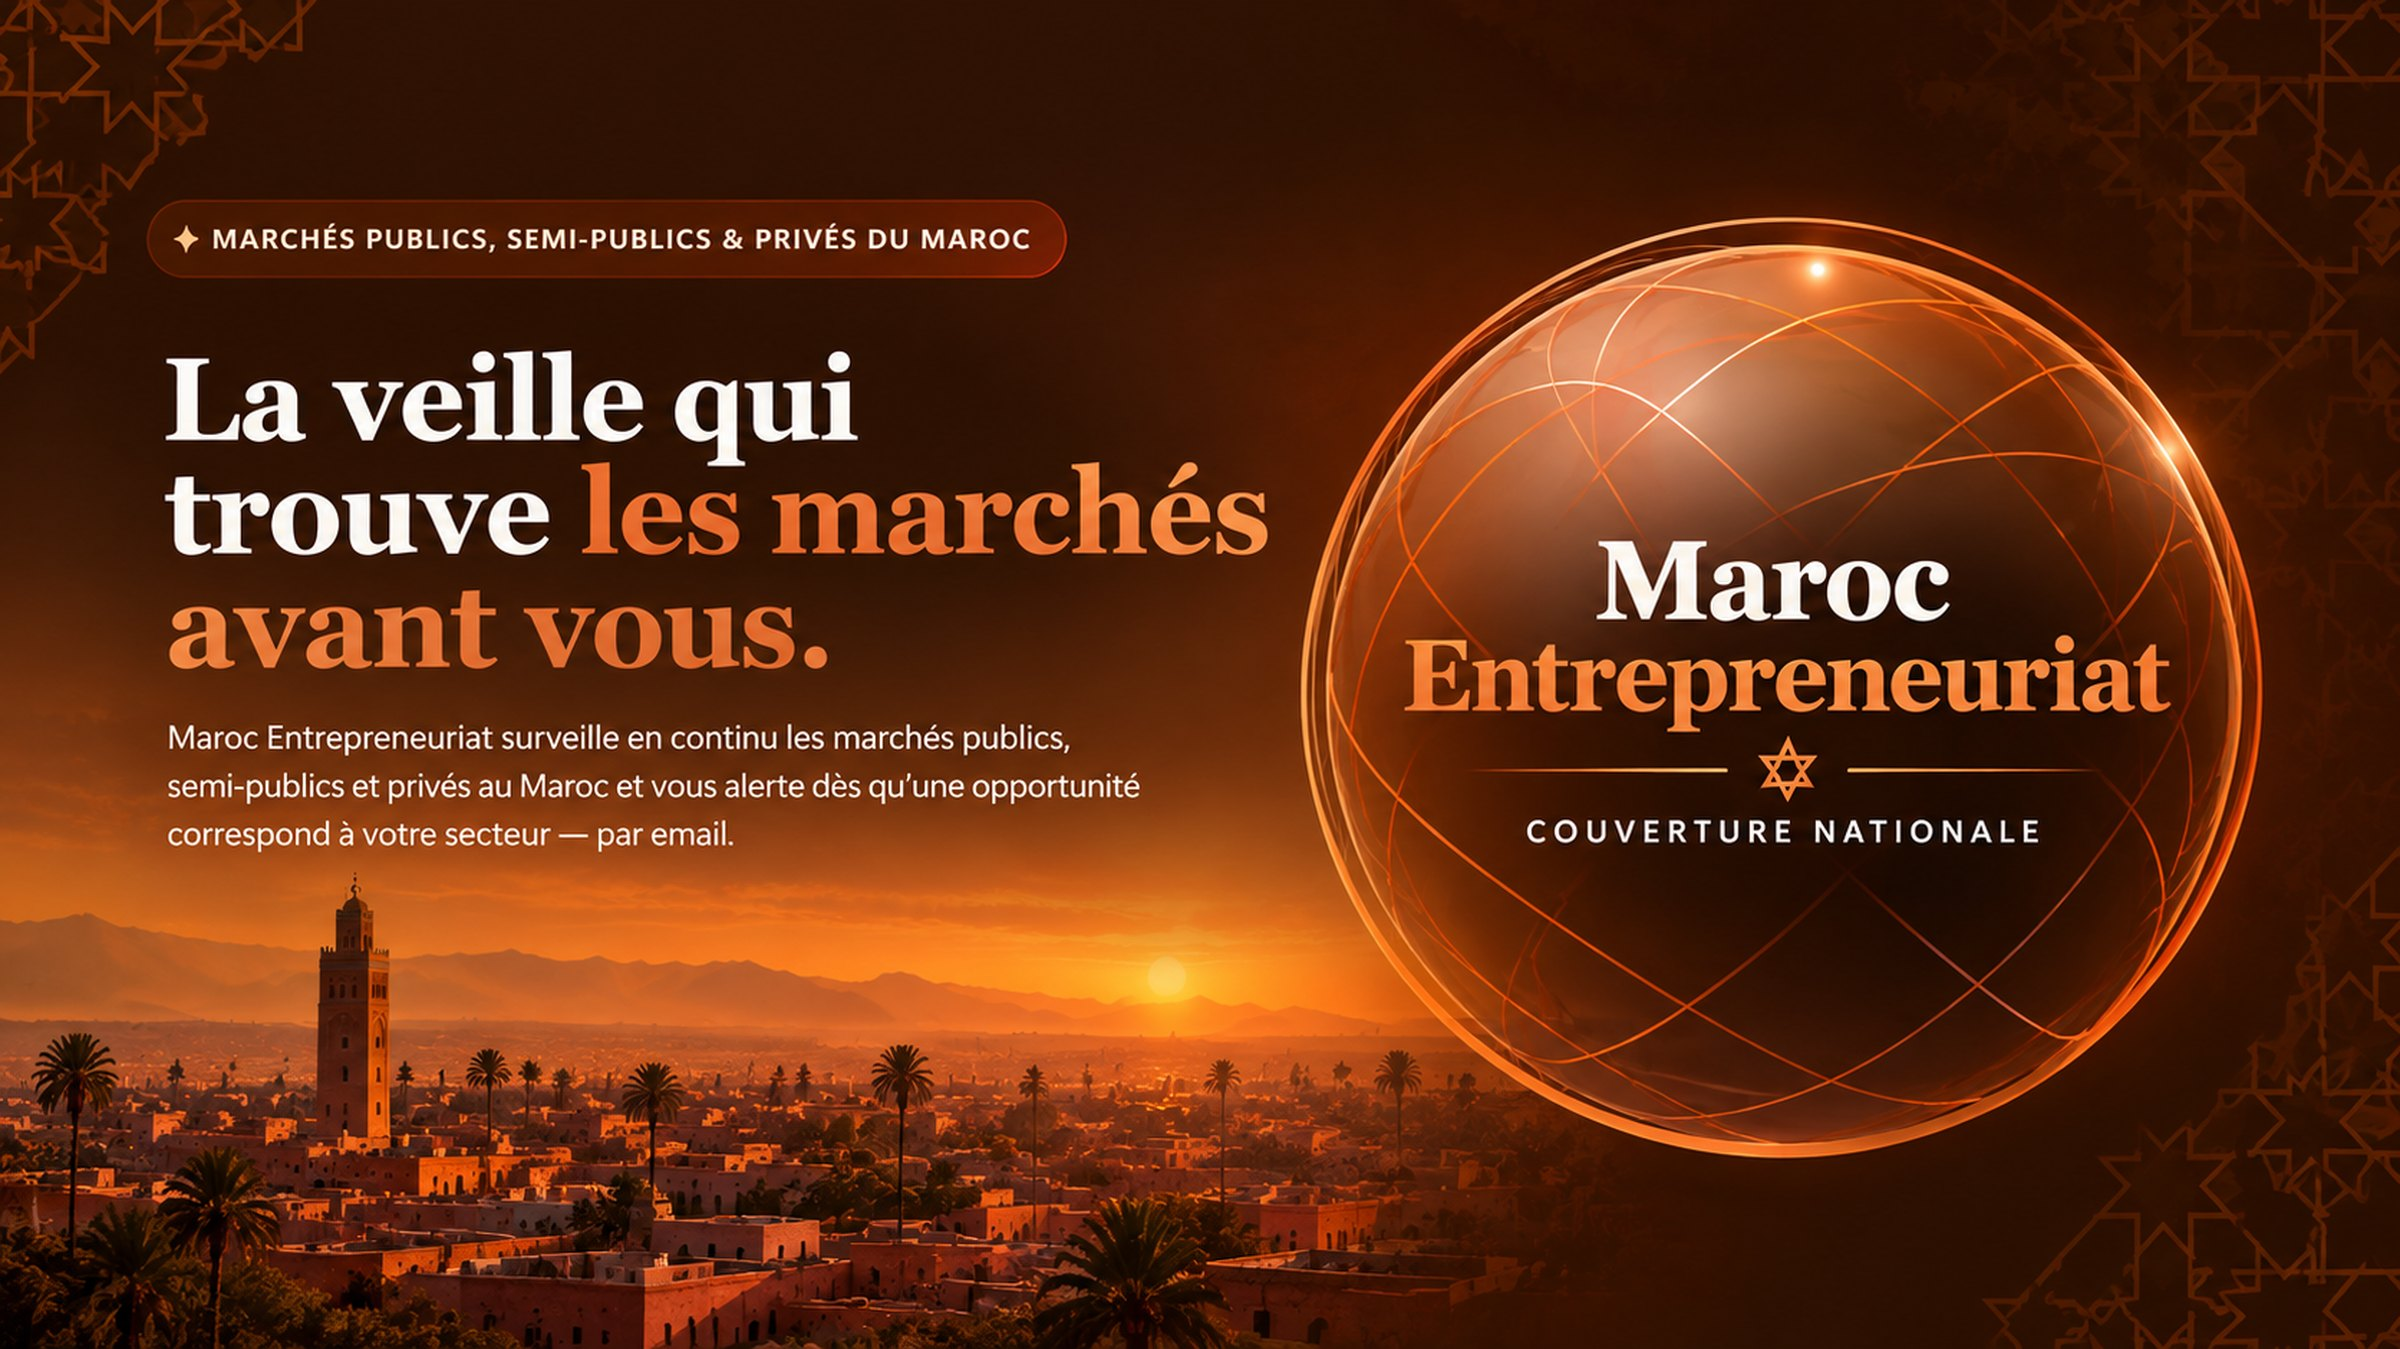
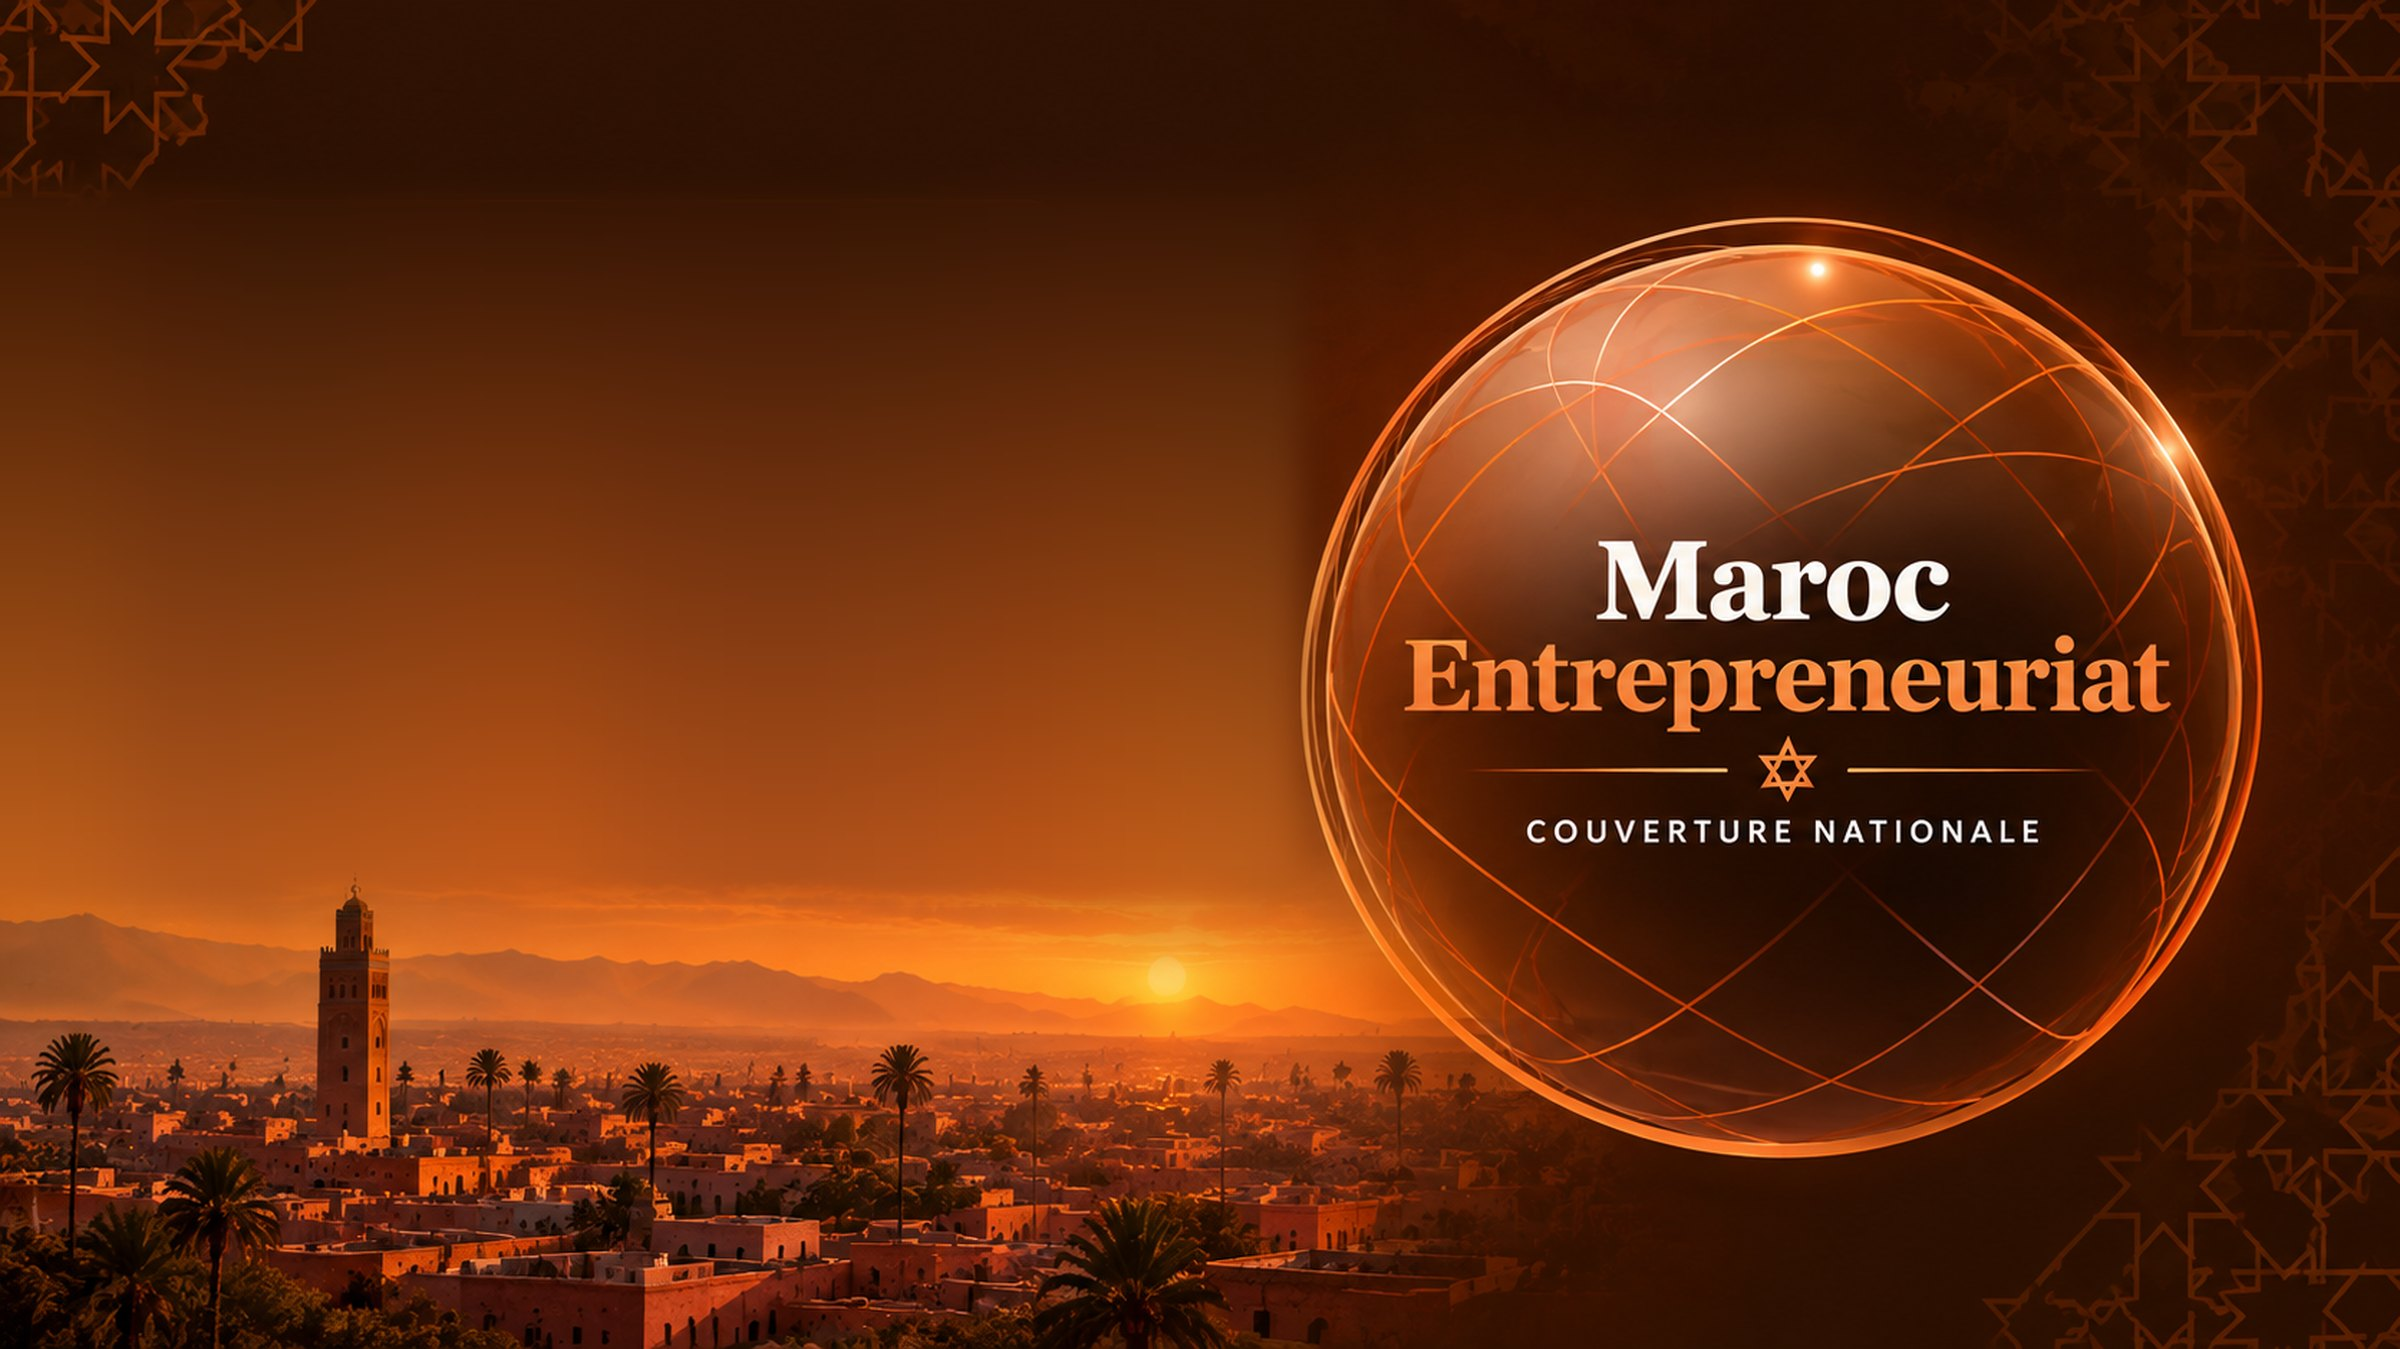
Bannière d'accueil: le texte sort de l'image et devient traduisible
Le titre, l'étiquette et le paragraphe étaient gravés dans le JPEG. La page
arabe affichait donc une accroche française, et aucun moteur de recherche
ne lisait la première phrase du site.

Les lettres ont été effacées de l'image — fond reconstruit colonne par
colonne entre deux ancres prises dans le brun sombre — et le texte est
revenu en HTML à l'emplacement exact qu'elles occupaient.

Le bloc est calé par `left`, et non par `inset-inline-start`: la place
libre est à gauche de l'image dans les deux langues, et la propriété
logique renvoyait le texte arabe par-dessus le globe. Les tailles sont en
cqw pour suivre l'échelle de la bannière; sous 900 px le bloc reprend sa
place dans le flux, au-dessus de l'image.

Au passage: la version arabe du sous-titre ne promettait que le courriel
là où la française annonce aussi le résumé WhatsApp.

Changed region(s): [[0.0, 0.1245, 0.5625, 0.6538]]

diff --git a/rassd_v6/templates/landing.html b/rassd_v6/templates/landing.html
@@ -20,7 +20,7 @@
 /* ── HERO ─────────────────────────────────────── */
 /* Aucun rembourrage: la bannière touche les bords. Les 92 px hérités de
    l'ancienne mise en page la laissaient flotter dans un cadre sombre. */
-.hero { position: relative; overflow: hidden; padding: 0 0 0; background: linear-gradient(160deg, var(--ink3) 0%, var(--ink) 100%); }
+.hero { position: relative; overflow: hidden; padding: 0 0 0; container-type: inline-size; background: linear-gradient(160deg, var(--ink3) 0%, var(--ink) 100%); }
 .hero::before { content: ""; position: absolute; inset: 0; background-image: var(--zellige); background-size: 84px 84px; opacity: .5; mask-image: linear-gradient(160deg, rgba(0,0,0,.9) 0%, transparent 65%); -webkit-mask-image: linear-gradient(160deg, rgba(0,0,0,.9) 0%, transparent 65%); pointer-events: none; }
 .hero-grid { position: relative; z-index: 1; max-width: 1280px; margin: 0 auto;
   display: grid; grid-template-columns: minmax(0, 620px); align-items: center; }
@@ -55,13 +55,33 @@
 /* La bannière garde ses proportions: largeur entière, hauteur libre. Aucun
    recadrage, donc aucun globe rogné ni étiré. */
 .hero-banniere { display: block; width: 100%; height: auto; }
+/* Le titre n'est plus gravé dans l'image: la bannière a été nettoyée de ses
+   lettres et le texte revient en HTML, à la place exacte qu'il occupait.
+   C'est ce qui lui rend la traduction — une image ne se traduit pas.
+   Les tailles sont en pour-cent de la largeur de la bannière (cqw), seule
+   unité qui suit son échelle à toutes les largeurs; la valeur en vw qui
+   précède sert aux navigateurs qui ignorent les conteneurs. */
+/* « left », et non « inset-inline-start »: la place libre est à gauche de
+   l'image, quelle que soit la langue. En arabe la propriété logique renvoyait
+   le bloc à droite, par-dessus le globe. Le texte, lui, s'aligne du bon côté
+   tout seul — à droite en arabe, contre le globe, comme à gauche en français
+   contre le bord. 43 %: au-delà, les lignes arabes touchent la lueur. */
+.hero-texte { position: absolute; z-index: 1; top: 15.5%; left: 6.9%;
+  width: 43%; text-align: start; }
+.hero-sur { display: inline-block; margin: 0 0 2.9em; white-space: nowrap;
+  font-size: 1.05vw; font-size: 1.05cqw; font-weight: 700; letter-spacing: .06em;
+  line-height: 1.2; text-transform: uppercase; color: #fff;
+  background: rgba(242,102,45,.18); border: 1px solid rgba(242,102,45,.42);
+  padding: .5em 1.1em; border-radius: var(--rp); }
+.hero-titre { font-family: var(--serif); font-weight: 700;
+  font-size: 4.3vw; font-size: 4.3cqw; line-height: 1.06; letter-spacing: -.015em;
+  color: #fff; margin: 0 0 .42em; text-wrap: balance; }
+.hero-titre em { font-style: normal; color: var(--ink2); }
+.hero-dek { font-size: 1.3vw; font-size: 1.3cqw; line-height: 1.62;
+  color: rgba(255,255,255,.8); margin: 0; }
 .hero-actions { position: relative; z-index: 1; max-width: 1280px; margin: 0 auto;
   padding: 36px 24px 48px; display: flex; flex-direction: column; gap: 16px;
   align-items: center; text-align: center; }
-/* Lu par les moteurs et les lecteurs d'écran, invisible à l'œil: le titre est
-   dans l'image, et une image ne se lit pas. */
-.hors-ecran { position: absolute; width: 1px; height: 1px; padding: 0; margin: -1px;
-  overflow: hidden; clip: rect(0 0 0 0); white-space: nowrap; border: 0; }
 .hero-globe { position: relative; width: min(100%, 440px); aspect-ratio: 1; display: flex; align-items: center; justify-content: center; }
 .hero-globe-halo { position: absolute; inset: -10%; border-radius: 50%; background: radial-gradient(circle, rgba(255,255,255,.35) 0%, rgba(255,154,86,.12) 45%, transparent 72%); filter: blur(8px); }
 .hero-globe-orb { position: absolute; inset: 6%; border-radius: 50%; background:
@@ -213,6 +233,11 @@ html[dir="rtl"] .faq-acc-q { text-align: right; }
 @media(max-width: 900px) {
   .hero-grid { grid-template-columns: 1fr; }
   .hero-visual { min-height: 260px; margin-top: 12px; }
+  .hero-texte { position: static; width: auto; max-width: 620px; margin: 0 auto;
+    padding: 40px 24px 20px; text-align: center; }
+  .hero-sur { font-size: var(--f2); margin-bottom: 20px; white-space: normal; }
+  .hero-titre { font-size: clamp(30px, 7vw, 44px); margin-bottom: 16px; }
+  .hero-dek { font-size: var(--f4); }
   .pain-grid, .value-grid { grid-template-columns: 1fr; }
   .feat-grid { grid-template-columns: 1fr 1fr; }
   .proof-card { padding: 32px 24px; }
@@ -235,16 +260,19 @@ html[dir="rtl"] .faq-acc-q { text-align: right; }
 
 <!-- HERO -->
 <section class="hero">
+  {# Le texte vient avant l'image dans le balisage: sous 900 px il la
+     précède à l'écran, et partout il est lu en premier. Au-dessus, il est
+     positionné par-dessus la bannière, dont les lettres ont été effacées. #}
+  <div class="hero-texte">
+    <p class="hero-sur">{{ tr('hero_eyebrow') }}</p>
+    <h1 class="hero-titre">{{ tr('hero_title')|safe }}</h1>
+    <p class="hero-dek">{{ tr('hero_sub_wa') if cfg.WA_ENABLED else tr('hero_sub') }}</p>
+  </div>
   {# La bannière entière, sans recadrage: « cover » la rognait et grossissait
-     le globe. Elle porte déjà le titre et le texte, qui ne sont donc pas
-     répétés au-dessus. Mais un titre gravé dans une image n'est lu ni par un
-     moteur de recherche ni par un lecteur d'écran: le h1 reste, masqué à
-     l'œil seulement, et le texte de remplacement porte la même phrase. #}
+     le globe. Le nom gravé dans le globe est la marque, pas une phrase: il
+     ne se traduit pas plus qu'une signature. #}
   <img class="hero-banniere" src="/static/img/hero.jpg" width="2400" height="1349"
-       fetchpriority="high" decoding="async"
-       alt="{{ tr('hero_title')|striptags }} — {{ tr('hero_eyebrow') }}">
-  <h1 class="hors-ecran">{{ tr('hero_title')|striptags }}</h1>
-  <p class="hors-ecran">{{ tr('hero_sub_wa') if cfg.WA_ENABLED else tr('hero_sub') }}</p>
+       fetchpriority="high" decoding="async" alt="">
   <div class="hero-actions">
     <div class="hero-cta">
       <a href="/register" class="btn btn-accent btn-xl">{{ tr('hero_cta_trial', n=cfg.TRIAL_DAYS) }}</a>

diff --git a/rassd_v6/templates/base.html b/rassd_v6/templates/base.html
@@ -264,10 +264,10 @@ html[dir="rtl"] .sel { background-position: left 14px center; padding-right: 14p
 /* ── RTL (arabe) ─────────────────────────────────────────── */
 html[dir="rtl"] body { font-family: 'Tajawal', system-ui, sans-serif; }
 html[dir="rtl"] .section-title, html[dir="rtl"] .display-xl, html[dir="rtl"] .display-l, html[dir="rtl"] .display-m,
-html[dir="rtl"] .brand-name {
+html[dir="rtl"] .hero-titre, html[dir="rtl"] .brand-name {
   font-family: 'Amiri', 'Tajawal', serif;
 }
-html[dir="rtl"] .section-title em, html[dir="rtl"] .display-xl em, html[dir="rtl"] .display-l em, html[dir="rtl"] .display-m em { font-style: normal; }
+html[dir="rtl"] .section-title em, html[dir="rtl"] .display-xl em, html[dir="rtl"] .display-l em, html[dir="rtl"] .display-m em, html[dir="rtl"] .hero-titre em { font-style: normal; }
 html[dir="rtl"] .mono { direction: ltr; unicode-bidi: isolate; }
 html[dir="rtl"] .latest-row:hover .latest-arrow,
 html[dir="rtl"] .tender-row:hover .row-arrow,

diff --git a/rassd_v6/tests/test_banniere_traduite.py b/rassd_v6/tests/test_banniere_traduite.py
@@ -1,0 +1,82 @@
+# -*- coding: utf-8 -*-
+"""La bannière d'accueil ne doit plus porter son texte en dur.
+
+Le titre, l'étiquette et le paragraphe étaient gravés dans l'image: la page
+arabe affichait donc une phrase française, et aucun moteur de recherche ne
+lisait l'accroche. Les lettres ont été effacées de l'image et le texte est
+revenu en HTML, posé à l'emplacement qu'elles occupaient.
+
+Ce qui casse sans qu'on le voie, et que ces tests retiennent:
+
+- une propriété logique (`inset-inline-start`) renvoie le bloc à droite en
+  arabe, c'est-à-dire par-dessus le globe: le texte devient illisible.
+- une taille en pixels ne suit pas l'image, qui est en largeur relative: le
+  bloc déborde du cadre sombre dès qu'on change de largeur d'écran.
+"""
+import os
+import re
+
+import pytest
+
+RACINE = os.path.dirname(os.path.dirname(os.path.abspath(__file__)))
+GABARIT = os.path.join(RACINE, "templates", "landing.html")
+
+
+def _gabarit():
+    with open(GABARIT, encoding="utf-8") as f:
+        return f.read()
+
+
+class TestLeTexteEstDuTexte:
+    @pytest.mark.parametrize("langue,extrait", [
+        ("fr", "La veille qui trouve"),
+        ("ar", "الرصد الذي يجد"),
+    ])
+    def test_l_accroche_est_rendue_dans_la_langue_demandee(self, client, langue, extrait):
+        page = client.get(f"/?lang={langue}").text
+        assert extrait in page, f"accroche absente en {langue}"
+        titre = re.search(r'<h1 class="hero-titre">(.*?)</h1>', page, re.S)
+        assert titre and extrait in titre.group(1)
+
+    def test_l_etiquette_et_le_paragraphe_suivent_aussi(self, client):
+        page = client.get("/?lang=ar").text
+        assert "الصفقات العمومية وشبه العمومية" in page
+        assert "قطاعك" in page
+
+    def test_aucun_titre_n_est_cache_a_l_oeil(self):
+        """Le h1 était masqué parce que l'image portait le vrai titre; il ne
+        doit pas rester deux titres, l'un lu, l'autre vu."""
+        assert "hors-ecran" not in _gabarit()
+
+    def test_la_banniere_est_decorative(self):
+        """Son texte de remplacement répétait l'accroche, désormais à côté
+        d'elle: un lecteur d'écran l'annonçait deux fois."""
+        m = re.search(r'<img class="hero-banniere"[^>]*>', _gabarit(), re.S)
+        assert m and 'alt=""' in m.group(0), m.group(0) if m else "image absente"
+
+
+class TestLePlacementTientDansLesDeuxSens:
+    def test_le_bloc_est_cale_a_gauche_physiquement(self):
+        """La place libre dans l'image est à gauche, dans les deux langues."""
+        regle = re.search(r"\.hero-texte \{[^}]*\}", _gabarit()).group(0)
+        assert "left:" in regle
+        assert "inset-inline-start" not in regle, (
+            "propriété logique: en arabe le bloc passe sur le globe")
+
+    def test_les_tailles_suivent_la_largeur_de_la_banniere(self):
+        """En pixels fixes, le texte sort du cadre sombre dès qu'on change
+        de largeur: l'image, elle, est en pourcentage."""
+        gabarit = _gabarit()
+        for classe in (".hero-titre", ".hero-dek", ".hero-sur"):
+            regle = re.search(re.escape(classe) + r" \{[^}]*\}", gabarit).group(0)
+            assert "cqw" in regle, f"{classe} ne suit pas la bannière"
+
+    def test_la_banniere_sert_de_conteneur_de_reference(self):
+        """Sans `container-type`, les cqw retombent sur la taille par défaut."""
+        regle = re.search(r"\.hero \{[^}]*\}", _gabarit()).group(0)
+        assert "container-type: inline-size" in regle
+
+    def test_sous_900_px_le_bloc_revient_dans_le_flux(self):
+        """Posé sur une bannière large de 400 px, le texte serait illisible."""
+        petit = re.search(r"@media\(max-width: 900px\) \{.*?\n\}", _gabarit(), re.S).group(0)
+        assert "position: static" in petit

diff --git a/rassd_v6/app/core/i18n.py b/rassd_v6/app/core/i18n.py
@@ -62,7 +62,7 @@ T = {
     "hero_title":         {"fr": "La veille qui trouve <em>les marchés avant vous.</em>",
                             "ar": "الرصد الذي يجد <em>الصفقات قبلك.</em>"},
     "hero_sub_wa":           {"fr": "Maroc Entrepreneuriat surveille en continu les marchés publics, semi-publics et privés au Maroc et vous alerte dès qu'une opportunité correspond à votre secteur — par email, et un résumé WhatsApp par jour.",
-                            "ar": "Maroc Entrepreneuriat يراقب باستمرار الصفقات العمومية وشبه العمومية والخاصة في المغرب وينبهك فور ظهور فرصة تناسب قطاعك — عبر البريد الإلكتروني."},
+                            "ar": "يراقب Maroc Entrepreneuriat باستمرار الصفقات العمومية وشبه العمومية والخاصة في المغرب، وينبّهك فور ظهور فرصة تناسب قطاعك — عبر البريد الإلكتروني، وملخّص عبر واتساب كلّ يوم."},
     "hero_cta_free":      {"fr": "Découvrir les offres →", "ar": "اكتشف العروض ←"},
     "hero_cta_tenders":   {"fr": "Voir les marchés", "ar": "عرض الصفقات"},
     "hero_locked_text":   {"fr": "Abonnez-vous pour voir les marchés en direct", "ar": "اشترك لمشاهدة الصفقات مباشرة"},
